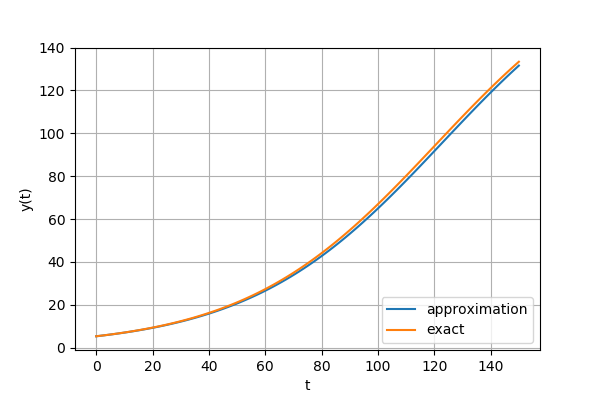
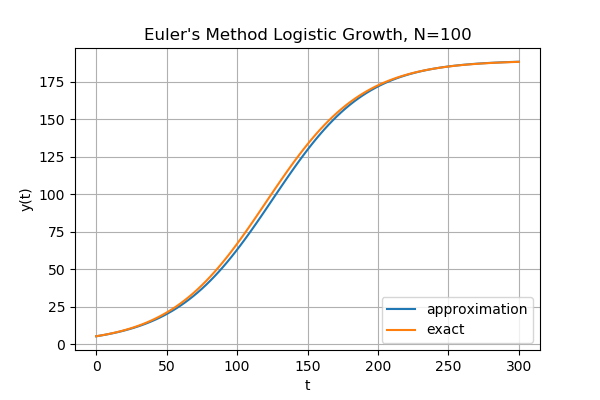
Period

diff --git a/Period.py b/Period.py
@@ -1,0 +1,86 @@
+# -*- coding: utf-8 -*-
+"""
+Created on Mon Mar  5 22:04:51 2018
+
+@author: gihan
+"""
+
+import numpy as np
+from scipy.integrate import odeint
+import matplotlib.pyplot as plt
+
+# https://www.gribblelab.org/compneuro/2_Modelling_Dynamical_Systems.html
+
+def Period(state,t):
+  # unpack the initial state vector
+  
+  M = state[0]
+  Fc = state[1]
+  Fn = state[2]
+  
+  """
+  x = state[0]
+  y = state[1]
+  z = state[2]
+  """
+
+  # these are our constants
+  
+  """
+  sigma = 10.0
+  rho = 28.0
+  beta = 8.0/3.0
+  """
+  
+  Vs = 1.5
+  Vm = 1.5
+  Vd = 1.0
+  ks = 0.5
+  K = .2
+  Km = 0.15
+  Kd = 0.15
+  kin = 0.02
+  kout = 0.1
+  n = 4 #Hill number
+
+  
+  # compute state derivatives
+  
+  """
+  xd = sigma * (y-x)
+  yd = (rho-z)*x - y
+  zd = x*y - beta*z
+  """
+  
+  dM = (Vs*(K**n/(K**n + Fn))) - (Vm*(M/(Km+M)))
+  dFc = ks*M - (Vd*(Fc/(Kd+Fc))) - (kin*Fc) + (kout*Fc)
+  dFn = kin*Fc - kout*Fn
+
+  # return the state derivatives
+  return [dM, dFc, dFn]
+
+state0 = [2.0, 3.0, 4.0]
+t = np.arange(0.0, 30.0, 0.01)
+
+state = odeint(Period, state0, t)
+
+plt.plot(t, state[:,0], label='approximation')
+#plt.plot(t, y(t), label='exact' )
+#plt.title( "Euler's Method Example, N="+str(N) )
+plt.xlabel('t') 
+plt.ylabel('y(t)')
+plt.legend(loc=4)
+plt.grid()
+plt.savefig( 'euler_example.png', fmt='PNG', dpi=100 )
+
+"""
+# do some fancy 3D plotting
+from mpl_toolkits.mplot3d import Axes3D
+fig = figure()
+ax = fig.gca(projection='3d')
+ax.plot(state[:,0],state[:,1],state[:,2])
+ax.set_xlabel('x')
+ax.set_ylabel('y')
+ax.set_zlabel('z')
+show()
+"""

diff --git a/ExponentialGrowth.py b/ExponentialGrowth.py
@@ -40,7 +40,7 @@ x[i] = x[i -1] + f(x[i -1])* dt
 
 # limits: 0.0 <= t <= 150
 a = 0
-b = 150
+b = 300
  
 # Number of steps
 nsteps = 100
@@ -76,14 +76,26 @@ for i in range(1,nsteps+1):
 def y(t):
     return K / (1 + (((K-5.3)/5.3)*np.exp(-r*t)))
 
+# N = 50 steps
 plt.plot(t, narray, label='approximation')
 plt.plot(t, y(t), label='exact' )
-#plt.title( "Euler's Method Example, N="+str(N) )
+plt.title( "Euler's Method Logistic Growth, N="+str(nsteps))
 plt.xlabel('t') 
 plt.ylabel('y(t)')
 plt.legend(loc=4)
 plt.grid()
-plt.savefig( 'euler_example.png', fmt='PNG', dpi=100 )
+plt.savefig('euler_example_50steps.png', fmt='PNG', dpi=100)
+
+# N = 100 steps
+plt.plot(t, narray, label='approximation')
+plt.plot(t, y(t), label='exact' )
+plt.title( "Euler's Method Logistic Growth, N="+str(nsteps))
+plt.xlabel('t') 
+plt.ylabel('y(t)')
+plt.legend(loc=4)
+plt.grid()
+plt.savefig('euler_example_100steps.png', fmt='PNG', dpi=100)
+
 
 """
 
